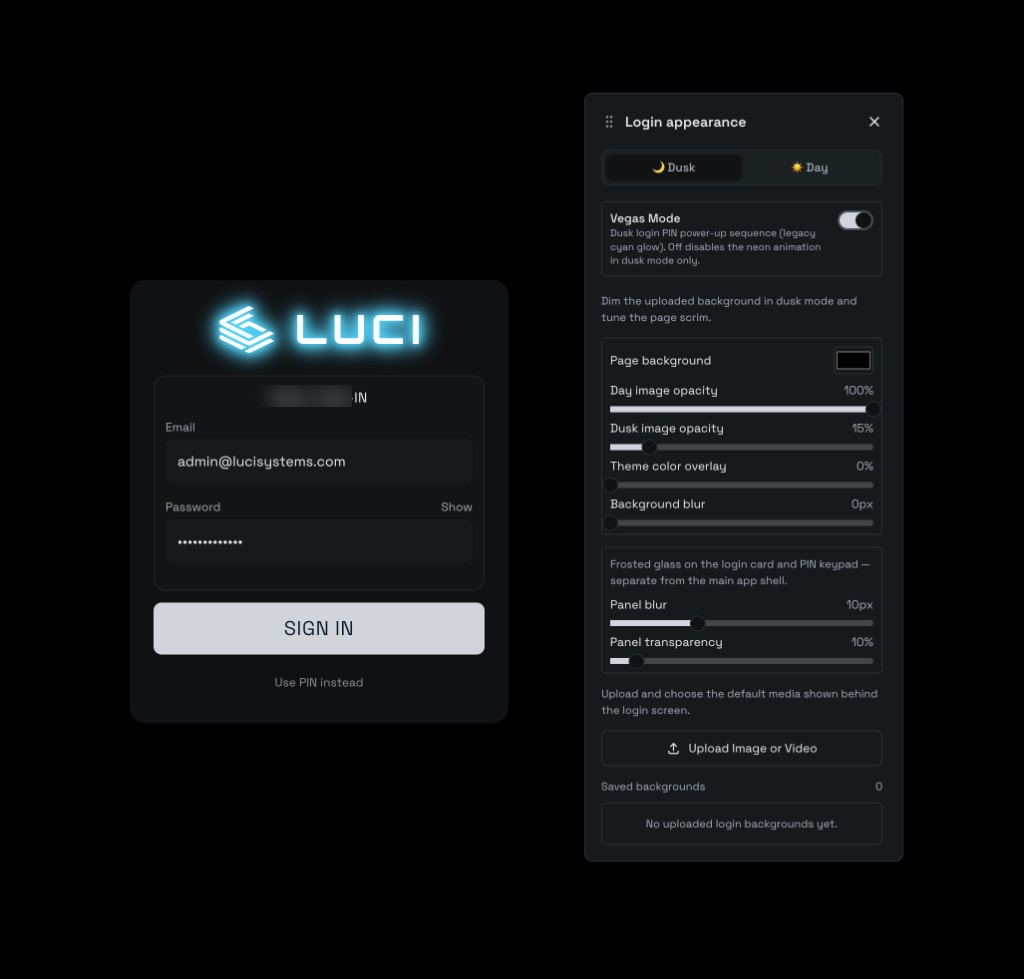
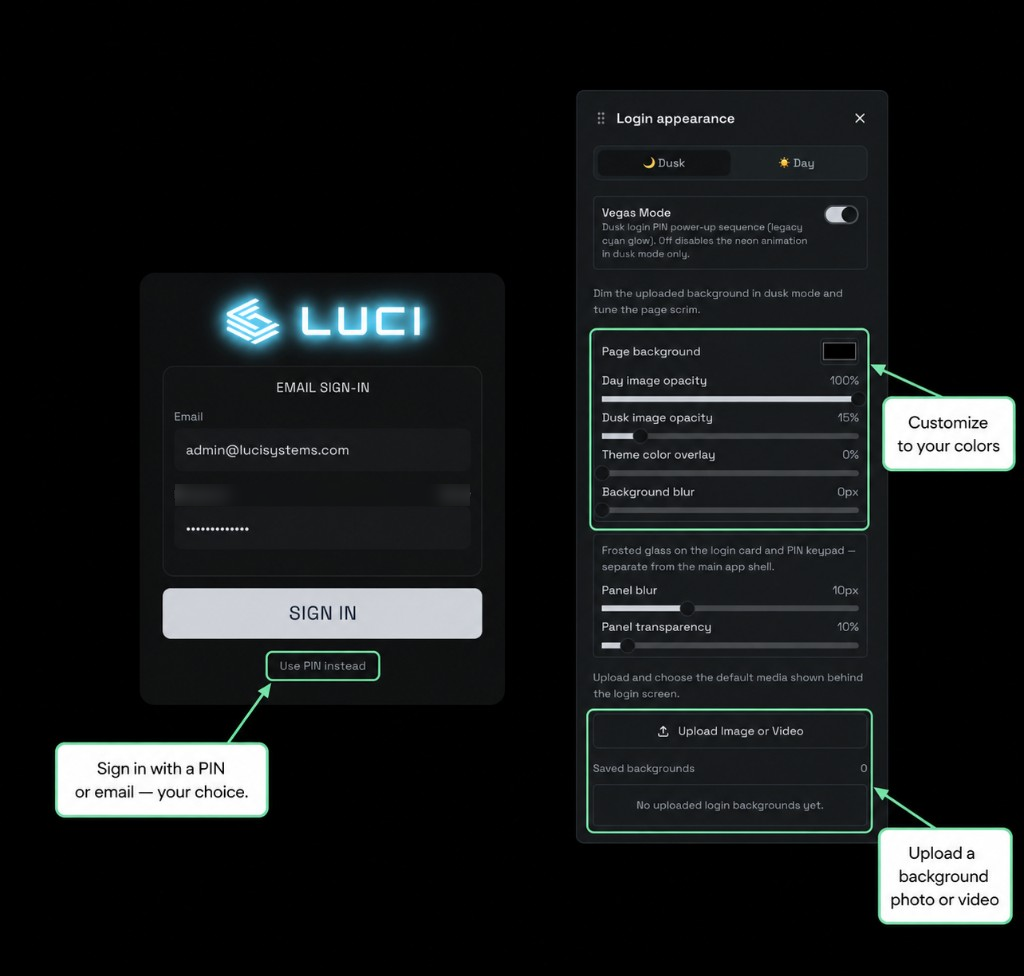
What's coming: lead with the new look, fix email blur, drop the callout
Reorder so "A new look" (interface customization) leads and "A map that
matches reality" follows. Drop "instead of ours" from the new-look copy and
tighten the map copy to the new wording (view all sites, rotate as-needed).
Replace the login screenshot with the annotated version (callouts baked in)
and re-blur the email address correctly — the first pass hit the SIGN-IN
header, not the email field. Remove the now-redundant "Customize the login
screen" callout box and its CSS. Mirrored to Webflow body + head.

diff --git a/LUCI Systems Design System/ui_kits/newsletter/the-signal-issue-03-august-2026.html b/LUCI Systems Design System/ui_kits/newsletter/the-signal-issue-03-august-2026.html
@@ -1834,43 +1834,6 @@
     .future-box p { margin: 0; color: #354F5C; font-size: 16px; }
     .future-box strong { color: var(--navy); }
 
-    /* Customization callout — light card, mint left bar, hairline-separated list */
-    .feature-callout {
-      max-width: 760px;
-      margin: 8px 0 22px;
-      padding: 22px 24px 18px 28px;
-      border: 1px solid #a8d9cb;
-      border-left: 4px solid var(--mint-dark);
-      border-radius: 12px;
-      background: #f2fbf8;
-    }
-    .feature-callout__title {
-      margin: 0 0 12px;
-      font-family: var(--body);
-      font-weight: 700;
-      color: var(--navy);
-      font-size: 17px;
-      letter-spacing: -0.01em;
-    }
-    .feature-callout__list { list-style: none; margin: 0; padding: 0; }
-    .feature-callout__list li {
-      position: relative;
-      padding: 9px 0 9px 22px;
-      border-bottom: 1px solid rgba(43, 158, 128, 0.14);
-      font-family: 'Inter', system-ui, sans-serif;
-      font-size: 15.5px;
-      line-height: 1.5;
-      color: #354F5C;
-    }
-    .feature-callout__list li:last-child { border-bottom: none; }
-    .feature-callout__list li::before {
-      content: '';
-      position: absolute; left: 4px; top: 17px;
-      width: 7px; height: 7px; border-radius: 50%;
-      background: var(--mint-dark);
-    }
-    .feature-callout__list strong { color: var(--navy); font-weight: 700; }
-
     .beta-note {
       margin-top: 28px; padding-top: 24px; border-top: 1px solid var(--rule-light);
       max-width: 820px;
@@ -2697,33 +2660,23 @@
     </div>
 
     <div class="feature-copy">
-      <p><strong>A map that matches reality.</strong> Every property and every endpoint now sits at its actual latitude and longitude, so your buildings and devices show up where they physically are. The map rotates to match the needs of the venue and the user. Move between sites, buildings and levels in one continuous view instead of a separate flat map for each property.</p>
+      <p><strong>A new look &mdash; and it&rsquo;s yours to set.</strong> New sign-in and splash screens, light and dark modes, and themes you can set to your own colors. The login screen itself is customizable, from the way you sign in to the background behind it.</p>
+    </div>
+    <div class="shot-block">
+      <div class="shot-label">Dusk mode &middot; login screen &amp; appearance settings</div>
+      <figure class="ui-shot">
+        <img src="assets/new-luci/login-custom.png?v=2" alt="New LUCI login screen in dusk mode with the Login appearance sidebar open, annotated to show pin or email sign-in, theme and color controls, and background image upload." width="1024" height="976" loading="lazy">
+      </figure>
+    </div>
+
+    <div class="feature-copy">
+      <p><strong>A map that matches reality.</strong> Every property and every endpoint now sits at its actual latitude and longitude, so your buildings and devices show up where they physically are. You can view all of your sites from within the platform and rotate the map as-needed.</p>
     </div>
     <div class="shot-block">
       <div class="shot-label">Light mode &middot; portfolio view</div>
       <figure class="ui-shot">
         <img src="assets/new-luci/map-light.png?v=1" alt="New LUCI interface in light mode, annotated to show real-world mapping and zooming from portfolio level to individual endpoints." width="1535" height="1024" loading="lazy">
       </figure>
-    </div>
-
-    <div class="feature-copy">
-      <p><strong>A new look &mdash; and it&rsquo;s yours to set.</strong> New sign-in and splash screens, light and dark modes, and themes you can set to your own colors instead of ours. The login screen itself is customizable, from the way you sign in to the background behind it.</p>
-    </div>
-    <div class="shot-block">
-      <div class="shot-label">Dusk mode &middot; login screen &amp; appearance settings</div>
-      <figure class="ui-shot">
-        <img src="assets/new-luci/login-custom.png?v=1" alt="New LUCI login screen in dusk mode with the Login appearance sidebar open, showing pin or email sign-in, theme and color controls, and background image upload." width="1024" height="979" loading="lazy">
-      </figure>
-    </div>
-
-    <div class="feature-callout">
-      <p class="feature-callout__title">Customize the login screen</p>
-      <ul class="feature-callout__list">
-        <li>Sign in with a <strong>PIN</strong> or <strong>email</strong> &mdash; your choice.</li>
-        <li><strong>Light and dark themes</strong>, set to your own colors.</li>
-        <li><strong>Color and lighting</strong> controls for the login card and PIN keypad.</li>
-        <li><strong>Upload a background photo or video</strong> behind the login screen.</li>
-      </ul>
     </div>
 
     <div class="future-box">

diff --git a/LUCI Systems Design System/ui_kits/newsletter/the-signal-issue-03-webflow-body.html b/LUCI Systems Design System/ui_kits/newsletter/the-signal-issue-03-webflow-body.html
@@ -255,33 +255,23 @@
     </div>
 
     <div class="feature-copy">
-      <p><strong>A map that matches reality.</strong> Every property and every endpoint now sits at its actual latitude and longitude, so your buildings and devices show up where they physically are. The map rotates to match the needs of the venue and the user. Move between sites, buildings and levels in one continuous view instead of a separate flat map for each property.</p>
+      <p><strong>A new look &mdash; and it&rsquo;s yours to set.</strong> New sign-in and splash screens, light and dark modes, and themes you can set to your own colors. The login screen itself is customizable, from the way you sign in to the background behind it.</p>
+    </div>
+    <div class="shot-block">
+      <div class="shot-label">Dusk mode &middot; login screen &amp; appearance settings</div>
+      <figure class="ui-shot">
+        <img src="EDIT-CDN: upload assets/new-luci/login-custom.png to Webflow, paste its CDN URL here" alt="New LUCI login screen in dusk mode with the Login appearance sidebar open, annotated to show pin or email sign-in, theme and color controls, and background image upload." width="1024" height="976" loading="lazy">
+      </figure>
+    </div>
+
+    <div class="feature-copy">
+      <p><strong>A map that matches reality.</strong> Every property and every endpoint now sits at its actual latitude and longitude, so your buildings and devices show up where they physically are. You can view all of your sites from within the platform and rotate the map as-needed.</p>
     </div>
     <div class="shot-block">
       <div class="shot-label">Light mode &middot; portfolio view</div>
       <figure class="ui-shot">
         <img src="https://cdn.prod.website-files.com/62d7d68d14611c2a31d863cd/6a7f6934c6e50ed127784dcb_luci-platform-light-annotated.png" alt="New LUCI interface in light mode, annotated to show real-world mapping and zooming from portfolio level to individual endpoints." width="1535" height="1024" loading="lazy">
       </figure>
-    </div>
-
-    <div class="feature-copy">
-      <p><strong>A new look &mdash; and it&rsquo;s yours to set.</strong> New sign-in and splash screens, light and dark modes, and themes you can set to your own colors instead of ours. The login screen itself is customizable, from the way you sign in to the background behind it.</p>
-    </div>
-    <div class="shot-block">
-      <div class="shot-label">Dusk mode &middot; login screen &amp; appearance settings</div>
-      <figure class="ui-shot">
-        <img src="EDIT-CDN: upload assets/new-luci/login-custom.png to Webflow, paste its CDN URL here" alt="New LUCI login screen in dusk mode with the Login appearance sidebar open, showing pin or email sign-in, theme and color controls, and background image upload." width="1024" height="979" loading="lazy">
-      </figure>
-    </div>
-
-    <div class="feature-callout">
-      <p class="feature-callout__title">Customize the login screen</p>
-      <ul class="feature-callout__list">
-        <li>Sign in with a <strong>PIN</strong> or <strong>email</strong> &mdash; your choice.</li>
-        <li><strong>Light and dark themes</strong>, set to your own colors.</li>
-        <li><strong>Color and lighting</strong> controls for the login card and PIN keypad.</li>
-        <li><strong>Upload a background photo or video</strong> behind the login screen.</li>
-      </ul>
     </div>
 
     <div class="future-box">

diff --git a/LUCI Systems Design System/ui_kits/newsletter/the-signal-issue-03-webflow-head.html b/LUCI Systems Design System/ui_kits/newsletter/the-signal-issue-03-webflow-head.html
@@ -359,13 +359,6 @@ figure.ui-shot img{display:block;width:100%;height:auto;}
 .future-icon{width:36px;height:36px;display:grid;place-items:center;border-radius:9px;background:var(--navy-deep);color:var(--mint);font-size:18px;font-weight:900;}
 .future-box p{margin:0;color:#354F5C;font-size:16px;}
 .future-box strong{color:var(--navy);}
-.feature-callout{max-width:760px;margin:8px 0 22px;padding:22px 24px 18px 28px;border:1px solid #a8d9cb;border-left:4px solid var(--mint-dark);border-radius:12px;background:#f2fbf8;}
-.feature-callout__title{margin:0 0 12px;font-family:var(--body);font-weight:700;color:var(--navy);font-size:17px;letter-spacing:-0.01em;}
-.feature-callout__list{list-style:none;margin:0;padding:0;}
-.feature-callout__list li{position:relative;padding:9px 0 9px 22px;border-bottom:1px solid rgba(43,158,128,0.14);font-family:'Inter',system-ui,sans-serif;font-size:15.5px;line-height:1.5;color:#354F5C;}
-.feature-callout__list li:last-child{border-bottom:none;}
-.feature-callout__list li::before{content:'';position:absolute;left:4px;top:17px;width:7px;height:7px;border-radius:50%;background:var(--mint-dark);}
-.feature-callout__list strong{color:var(--navy);font-weight:700;}
 .beta-note{margin-top:28px;padding-top:24px;border-top:1px solid var(--rule-light);max-width:820px;}
 .beta-note p{margin:0 0 8px;font-size:16px;color:#354F5C;}
 .beta-note .more{color:var(--mint-dark);font-weight:700;}
